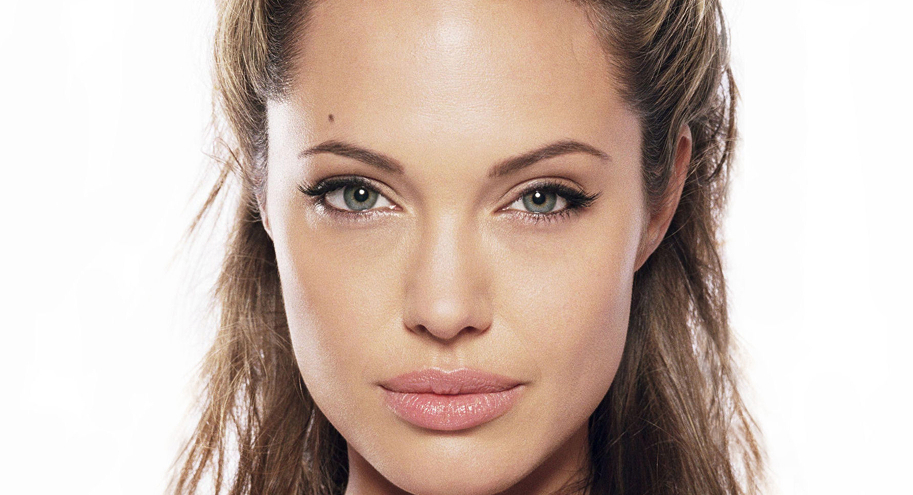
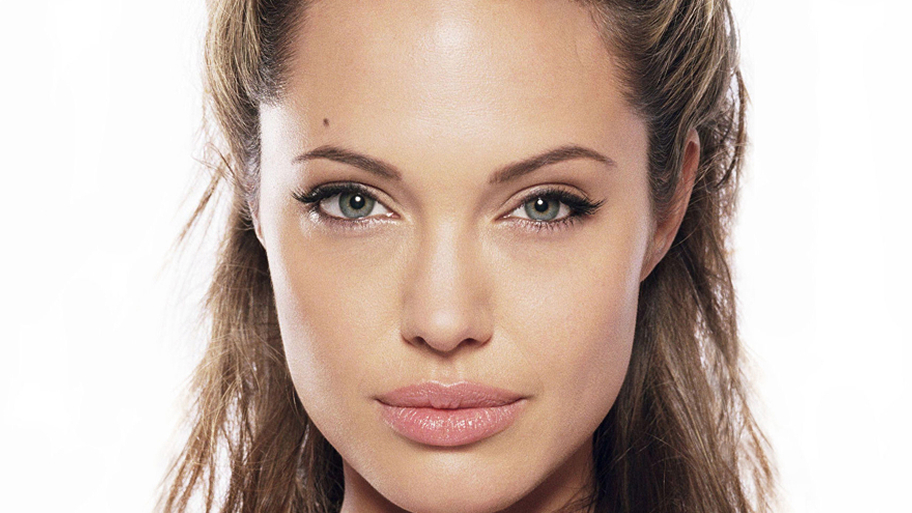
before/after component improving

diff --git a/src/shared/components/BeforeAfter/index.tsx b/src/shared/components/BeforeAfter/index.tsx
@@ -22,23 +22,28 @@ export const BeforeAfter = ({ className }: TBeforeAfterProps) => {
     slider?.addEventListener("pointerdown", (e) => {
       isDragging = true;
       slider.setPointerCapture(e.pointerId);
+      slider.classList.add(styles.isDragging);
     });
 
     slider?.addEventListener("pointerup", (e) => {
       isDragging = false;
       slider.releasePointerCapture(e.pointerId);
+      slider.classList.remove(styles.isDragging);
     });
 
     slider?.addEventListener("pointercancel", (e) => {
       isDragging = false;
       slider.releasePointerCapture(e.pointerId);
+      slider.classList.remove(styles.isDragging);
     });
 
     container?.addEventListener("pointermove", (e) => {
       if (!isDragging) return;
-      const rect = container?.getBoundingClientRect();
-      let x = e.clientX - rect.left; // cursor X coordinate relative to the left edge of rect
-      x = Math.max(0, Math.min(x, rect.width)); // limits of acceptable values for slider movement
+
+      const rect = container.getBoundingClientRect();
+      const padding = 15;
+      let x = e.clientX - rect.left;
+      x = Math.max(padding, Math.min(x, rect.width - padding));
       const sliderPosition = (x / rect.width) * 100;
       slider.style.left = `${sliderPosition}%`;
       beforeImage.style.clipPath = `inset(0 ${100 - sliderPosition}% 0 0)`;

diff --git a/src/shared/components/BeforeAfter/BeforeAfter.module.css b/src/shared/components/BeforeAfter/BeforeAfter.module.css
@@ -1,22 +1,24 @@
 .beforeAfterComponent {
   overflow: hidden;
   max-width: 1000px;
+  aspect-ratio: 16/9;
   position: relative;
-  outline: 2px solid var(--white);
+  /* outline: 2px solid var(--white); */
   -webkit-user-select: none; /* Safari */
   -ms-user-select: none; /* IE 10+ */
-  overflow: hidden;
 }
 
 .afterImage {
-  width: 100%;
-  display: block;
-  object-fit: contain;
+  position: absolute;
+  left: 50%;
+  top: 50%;
+  transform: translate(-50%, -50%);
 }
 
 .beforeImage {
-  background-size: contain;
+  background-size: none;
   background-repeat: no-repeat;
+  background-position: center;
   position: absolute;
   top: 0;
   left: 0;
@@ -35,4 +37,17 @@
   cursor: pointer;
   touch-action: none;
   user-select: none;
+  color: var(--secondary-color);
+  will-change: transform;
+  transition: 0.1s transform ease;
+}
+
+.isDragging {
+  transform: translateX(-50%) scale(1.5);
+}
+
+@media (max-width: 480px) {
+  .beforeAfterComponent {
+    aspect-ratio: 9/16;
+  }
 }

diff --git a/src/shared/assets/svg/Slider.tsx b/src/shared/assets/svg/Slider.tsx
@@ -2,12 +2,11 @@ export const SliderSVG = ({ className }: { className: string }) => {
   return (
     <svg
       xmlns="http://www.w3.org/2000/svg"
-      fill="none"
       viewBox="0 0 427 10539"
       className={className}
     >
       <path
-        fill="#fff"
+        fill="currentColor"
         d="m192 2452-1 2454-14 4a210 210 0 0 0-152 110l-6 13c-5 8-12 32-15 47l-3 14-1 171c0 166 0 170 3 186a209 209 0 0 0 111 156l13 6c9 5 32 12 47 15l17 5 1 2453v2453h43V8086l1-2453q1-2 13-4a210 210 0 0 0 152-111l7-13c4-8 12-32 15-46l3-14v-171c1-167 1-171-2-187a209 209 0 0 0-111-155l-13-7c-9-4-32-12-48-14l-16-5-1-2454V0h-43zm127 2732v21H107v-41l107-1h105zm0 85v21H107v-40c1-2 21-2 107-2l105 1zm0 86v20H107v-40c1-1 21-2 107-1h105z"
       />
     </svg>

diff --git a/src/sections/treatmentsSection/index.tsx b/src/sections/treatmentsSection/index.tsx
@@ -26,8 +26,7 @@ export const TreatmentsSection = () => {
   return (
     <section className={styles.treatmentsSection} ref={ref}>
       <div className={styles.decorativeDescription}>
-        In my studio, we can create an individual care plan specifically for
-        you.
+        During your consultation, we’ll create a personalized care plan.
       </div>
       <h2 className={styles.heading}>Treatments</h2>
       <TreatmentsMenu data={mockData} />

diff --git a/src/sections/beforeAfterSection/BeforeAfterSection.module.css b/src/sections/beforeAfterSection/BeforeAfterSection.module.css
@@ -1,5 +1,5 @@
 .sectionContainer {
-  height: 100vh;
+  padding: 40px 10px;
   background-color: var(--black);
   position: relative;
   display: flex;
